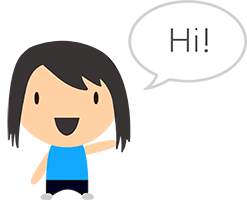
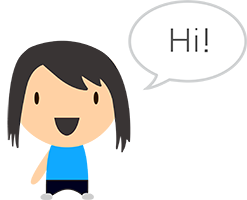
wave animation

Changed region(s): [[0.3401, 0.69, 0.4818, 0.78]]

diff --git a/projects.html b/projects.html
@@ -45,9 +45,9 @@
             </div>
             <div class="page-content">
                 <div class = "button-panel">
-                    <button class=" button" id="ongoing">Ongoing</button>
                     <button class="
                     button selected" id="all">All</button>
+                    <button class=" button" id="ongoing">Ongoing</button>
                     <button class="
                     button" id="technical">Technical</button>
                     <button class=" button" id="education">Education</button>

diff --git a/index.html b/index.html
@@ -19,10 +19,12 @@
 
 
 <body class="animate-in">
-    <div class="white">
         <div class = "center banner">
             <h1>Kelly Liu</h1>
-            <img src="img/main_kellywave.png">
+            <div class="image">
+                <img src="img/main_kellywave.png" class="front">
+                <img src="img/arm.png" class="behind">
+            </div>
         </div>
 
         <div class = "center" id="homebar">
@@ -49,7 +51,6 @@
         </div>
 
 
-    </div>
     <script src="javascript/main.js"></script>
 </body>
 

diff --git a/css/home.css b/css/home.css
@@ -26,7 +26,32 @@
 	
 }
 
+.image {
+	position:relative;
+	height:auto;
+}
 
+.behind {
+	position:absolute;
+	top:139px;
+	left:45px;
+	z-index: -1;
+}
+
+.front {
+	z-index: 1;
+}
+
+.image:hover > .behind {
+	animation: wave 1.5s infinite;
+}
+
+@keyframes wave {
+	50% {
+		-webkit-transform: rotate(25deg);
+		transform: rotate(25deg);
+	}
+}
 body {
 	background-color: #FFFFFF;
 }

diff --git a/css/main.css b/css/main.css
@@ -148,7 +148,7 @@ h1 {
 
 .banner {
 	padding: 8% 0%;
-	background-color: #FFFFFF;
+	/*background-color: #FFFFFF;*/
 }
 
 .banner img {
